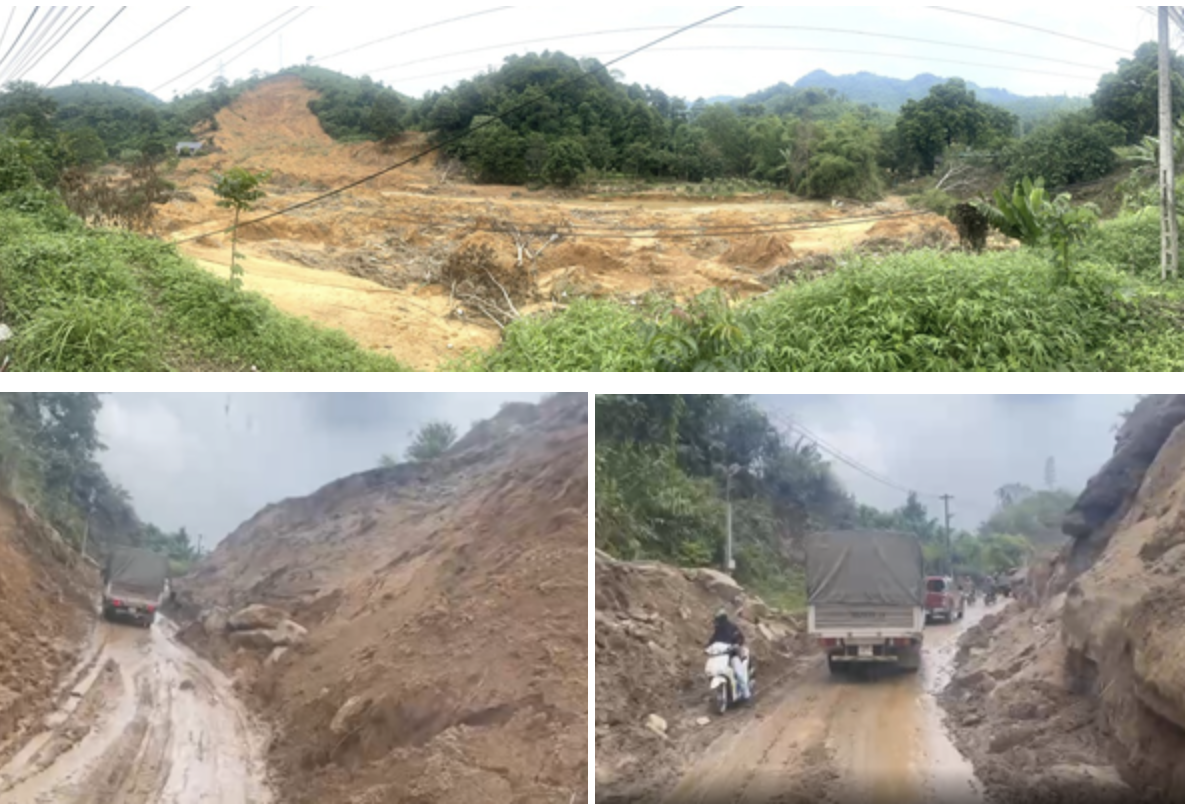
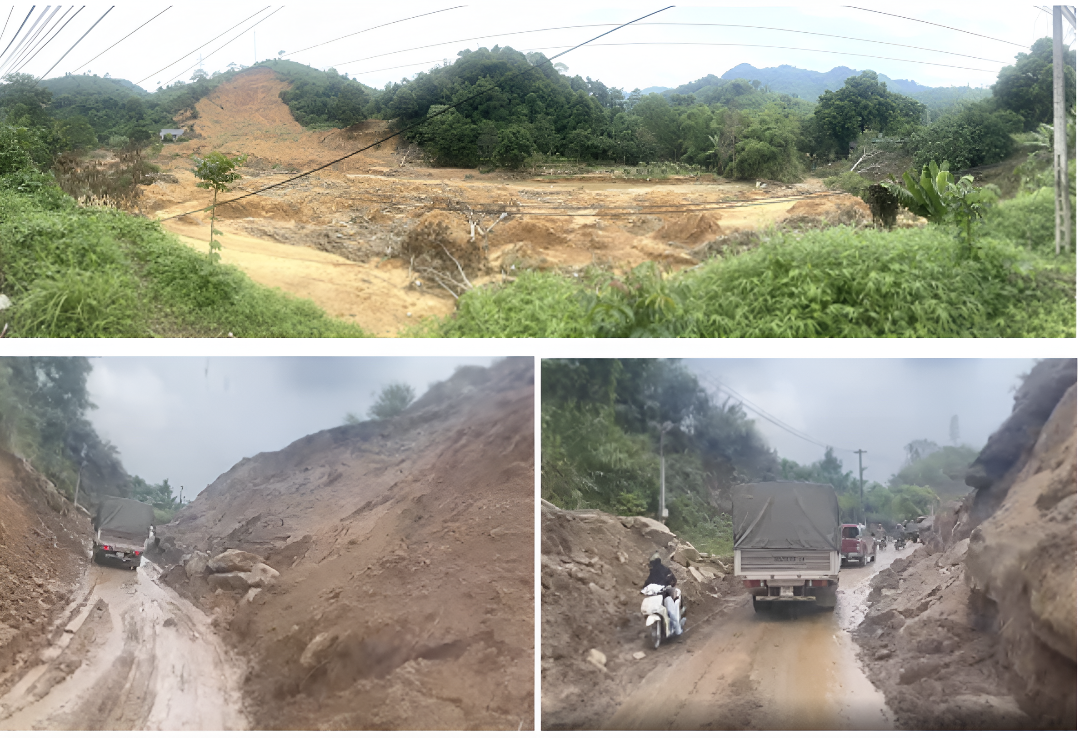
update

diff --git a/src/pages/News.html b/src/pages/News.html
@@ -5,7 +5,6 @@
   <link rel="stylesheet" href="styles.css">
 </head>
 <style> 
-
 * {
   margin: 0;
   padding: 0;
@@ -144,27 +143,22 @@ body {
   margin-top: 5%;
   display: grid;
   grid-template-columns: repeat(auto-fit, minmax(300px, 1fr));
-  gap: 25px;
+  gap: 15px;
   padding: 20px;
+  place-items: center;
 }
 
 .grid a{
   text-decoration: none;
 }
 
-@media (max-width: 1440px) {
-  .grid {
-    display: flex; /* override grid */
-    flex-direction: column;
-    align-items: center;
-    overflow: hidden;
-    touch-action: pan-y;
-  }
+@media (min-width: 551px) and (max-width: 1024px) {
   .card.image-card {
     width: 100%;
     height: clamp(325px, 65vh, 675px);
-    max-width: 550px;
+    max-width: 75%;
     transition: transform 0.3s ease, opacity 0.3s ease;
+    will-change: transform;
   }
   .image-card img {
     filter: grayscale(0%) !important;
@@ -192,6 +186,17 @@ body {
     height: 30px;
   }
 }
+
+@media (max-width: 550px) {
+  .grid {
+    margin-top: 15%;
+    grid-template-columns: 1fr;
+  }
+  .card.image-card {
+    max-width: 380px;
+  }
+}
+
 .card {
   background: #c4c4c4;
   border-radius: 8px;
@@ -260,7 +265,7 @@ body {
 
 .card-info h3 {
   color: #000000;
-  font-size: clamp(0.75rem, 2.5vw, 1.1rem);
+  font-size: clamp(0.75rem, 2.5vw, 1rem);
   margin-bottom: 5px;
 }
 
@@ -277,7 +282,7 @@ body {
 .card-info .description,
 .card-info .location,
 .card-info .year {
-  font-size: clamp(0.65rem, 2.5vw, 1rem);
+  font-size: clamp(0.65rem, 2vw, 0.9rem);
   color: #000000;
   margin-bottom: 4px;
   font-weight: 400;
@@ -376,9 +381,9 @@ body {
   </div>
 
   <main class="grid">
-    <a href="src/pages/article_template.html?id=1" class="card image-card aos-animate" data-aos="flip-down">
+    <a href="src/pages/article_template.html?id=1" class="card image-card aos-animate" data-aos="fade-up">
       <div class="image-wrapper">
-        <img src="public/news/articles/Card_1.png" loading="lazy">
+        <img src="public/news/articles/Card_1.jpg" loading="lazy">
       </div>
       <div class="card-info">
         <h3>📰 Lễ Khánh Thành Công Viên Âu Cơ - Hội An</h3>
@@ -386,10 +391,10 @@ body {
         <p class="location">Hội An, Việt Nam</p>
         <p class="date">16 Tháng 5, 2025</p>
       </div>
-    </a>
-    <a href="src/pages/articles/article_preservation.html" class="card image-card aos-animate" data-aos="flip-down">
+    </a> 
+    <a href="src/pages/articles/article_preservation.html" class="card image-card aos-animate" data-aos="fade-up">
       <div class="image-wrapper">
-        <img src="public/news/articles/Card_3.png" loading="lazy">
+        <img src="public/news/articles/Card_2.png" loading="lazy">
       </div>
       <div class="card-info">
         <h3>📰 Khai mạc Diễn đàn Bảo tồn Khu vực Châu Á lần thứ 8 tại Thái Lan</h3>
@@ -398,9 +403,9 @@ body {
         <p class="date">03 Tháng 9, 2024</p>
       </div>
     </a>
-    <a href="src/pages/articles/article_yagi_storm.html" class="card image-card aos-animate" data-aos="flip-down">
+    <a href="src/pages/articles/article_yagi_storm.html" class="card image-card aos-animate" data-aos="fade-up">
       <div class="image-wrapper">
-        <img src="public/news/articles/Card_2.png" loading="lazy">
+        <img src="public/news/articles/Card_3.jpg" loading="lazy">
       </div>
       <div class="card-info">
         <h3>📰 Ủng hộ, giúp đỡ đồng bào bị ảnh hưởng do bão YAGI</h3>
@@ -409,8 +414,6 @@ body {
         <p class="date">26 Tháng 9, 2024</p>
       </div>
     </a>
-
-    
   </main>
 </body>
 

diff --git a/src/script.js b/src/script.js
@@ -1310,57 +1310,70 @@ window.initLogoSlider = () => {
 // News Slider (Mobile Only)
 // ===================
 window.initMobileNewsSlider = () => {
-    const cards = document.querySelectorAll(".card.image-card");
-    const gridContainer = document.querySelector("main.grid");
+  const cards = document.querySelectorAll(".card.image-card");
+  const gridContainer = document.querySelector("main.grid");
 
-    if (!cards.length || !gridContainer) return;
+  if (!cards.length || !gridContainer) return;
 
-    let currentIndex = 0;
+  // Detect touch device
+  const isTouchDevice = 'ontouchstart' in window || navigator.maxTouchPoints > 0;
 
-    // Swipe detection variables
-    let startX = 0;
-    let endX = 0;
+  let currentIndex = 0;
+  let startX = 0;
+  let endX = 0;
 
-    function updateSlider() {
-      if (window.innerWidth <= 1440) {
-        cards.forEach((card, i) => {
-          card.style.display = i === currentIndex ? "block" : "none";
-        });
-      } else {
-        cards.forEach(card => {
-          card.style.display = "block";
-        });
-      }
+  function updateSlider() {
+    if (window.innerWidth <= 1440 && isTouchDevice) {
+      // Apply slider styles for touch devices
+      Object.assign(gridContainer.style, {
+        display: "flex",
+        flexDirection: "column",
+        alignItems: "center",
+        overflow: "hidden",
+        touchAction: "pan-y"
+      });
+
+      // Show only one card at a time
+      cards.forEach((card, i) => {
+        card.style.display = i === currentIndex ? "block" : "none";
+      });
+
+    } else {
+      // Use CSS grid for non-touch devices
+      gridContainer.style.display = "grid";
+
+      // Show all cards
+      cards.forEach(card => {
+        card.style.display = "block";
+      });
     }
+  }
 
-    function handleSwipe() {
-      if (endX < startX - 50) {
-        // Swiped left
-        currentIndex = (currentIndex + 1) % cards.length;
-        updateSlider();
-      } else if (endX > startX + 50) {
-        // Swiped right
-        currentIndex = (currentIndex - 1 + cards.length) % cards.length;
-        updateSlider();
-      }
+  function handleSwipe() {
+    if (endX < startX - 50) {
+      currentIndex = (currentIndex + 1) % cards.length;
+      updateSlider();
+    } else if (endX > startX + 50) {
+      currentIndex = (currentIndex - 1 + cards.length) % cards.length;
+      updateSlider();
     }
+  }
 
-    // Attach touch listeners to the grid container
-    gridContainer.addEventListener("touchstart", (e) => {
+  // Only add swipe events for touch devices
+  if (isTouchDevice) {
+    gridContainer.addEventListener("touchstart", e => {
       startX = e.touches[0].clientX;
     });
 
-    gridContainer.addEventListener("touchend", (e) => {
+    gridContainer.addEventListener("touchend", e => {
       endX = e.changedTouches[0].clientX;
       handleSwipe();
     });
+  }
 
-    // Run it on load
-    updateSlider();
-
-    // Re-check on resize
-    window.addEventListener("resize", updateSlider);
-  };
+  updateSlider();
+  window.addEventListener("resize", updateSlider);
+};
 
   document.addEventListener("DOMContentLoaded", () => {
     window.initMobileNewsSlider();

diff --git a/src/pages/article_template.html b/src/pages/article_template.html
@@ -217,12 +217,12 @@ nav a:hover {
 </style>
   <header>
     <nav>
-      <a href="/">Home</a>
-      <a href="/#/ourWork">Work</a>
-      <a href="/#/pastProjects">Project History</a>
-      <a href="/#/News">News</a>
-      <a href="/#/aboutUs">About</a>
-      <a href="/#/Contact">Contact</a>
+      <a href="/">Trang Chủ</a>
+      <a href="/#/ourWork">Công Việc</a>
+      <a href="/#/pastProjects">Đề Tài</a>
+      <a href="/#/News">Tin Tức</a>
+      <a href="/#/aboutUs">Chúng Tôi</a>
+      <a href="/#/Contact">Liên Hệ</a>
       <div class="language-switcher">
         <a href="#" class="flag-link">
           <span class="flag-icon flag-icon-vn"></span>    

diff --git a/src/pages/articles/article_yagi_storm.html b/src/pages/articles/article_yagi_storm.html
@@ -245,7 +245,7 @@ nav a:hover {
       </div>
 
       <figure class="featured-image">
-        <img src="/public/news/articles/article_3/charity_work.png" alt="Relevant description">
+        <img src="/public/news/articles/article_3/area_affected.png" alt="Relevant description">
         <figcaption>Nhóm Tình Nguyện (ICUE)</figcaption>
       </figure>
 
